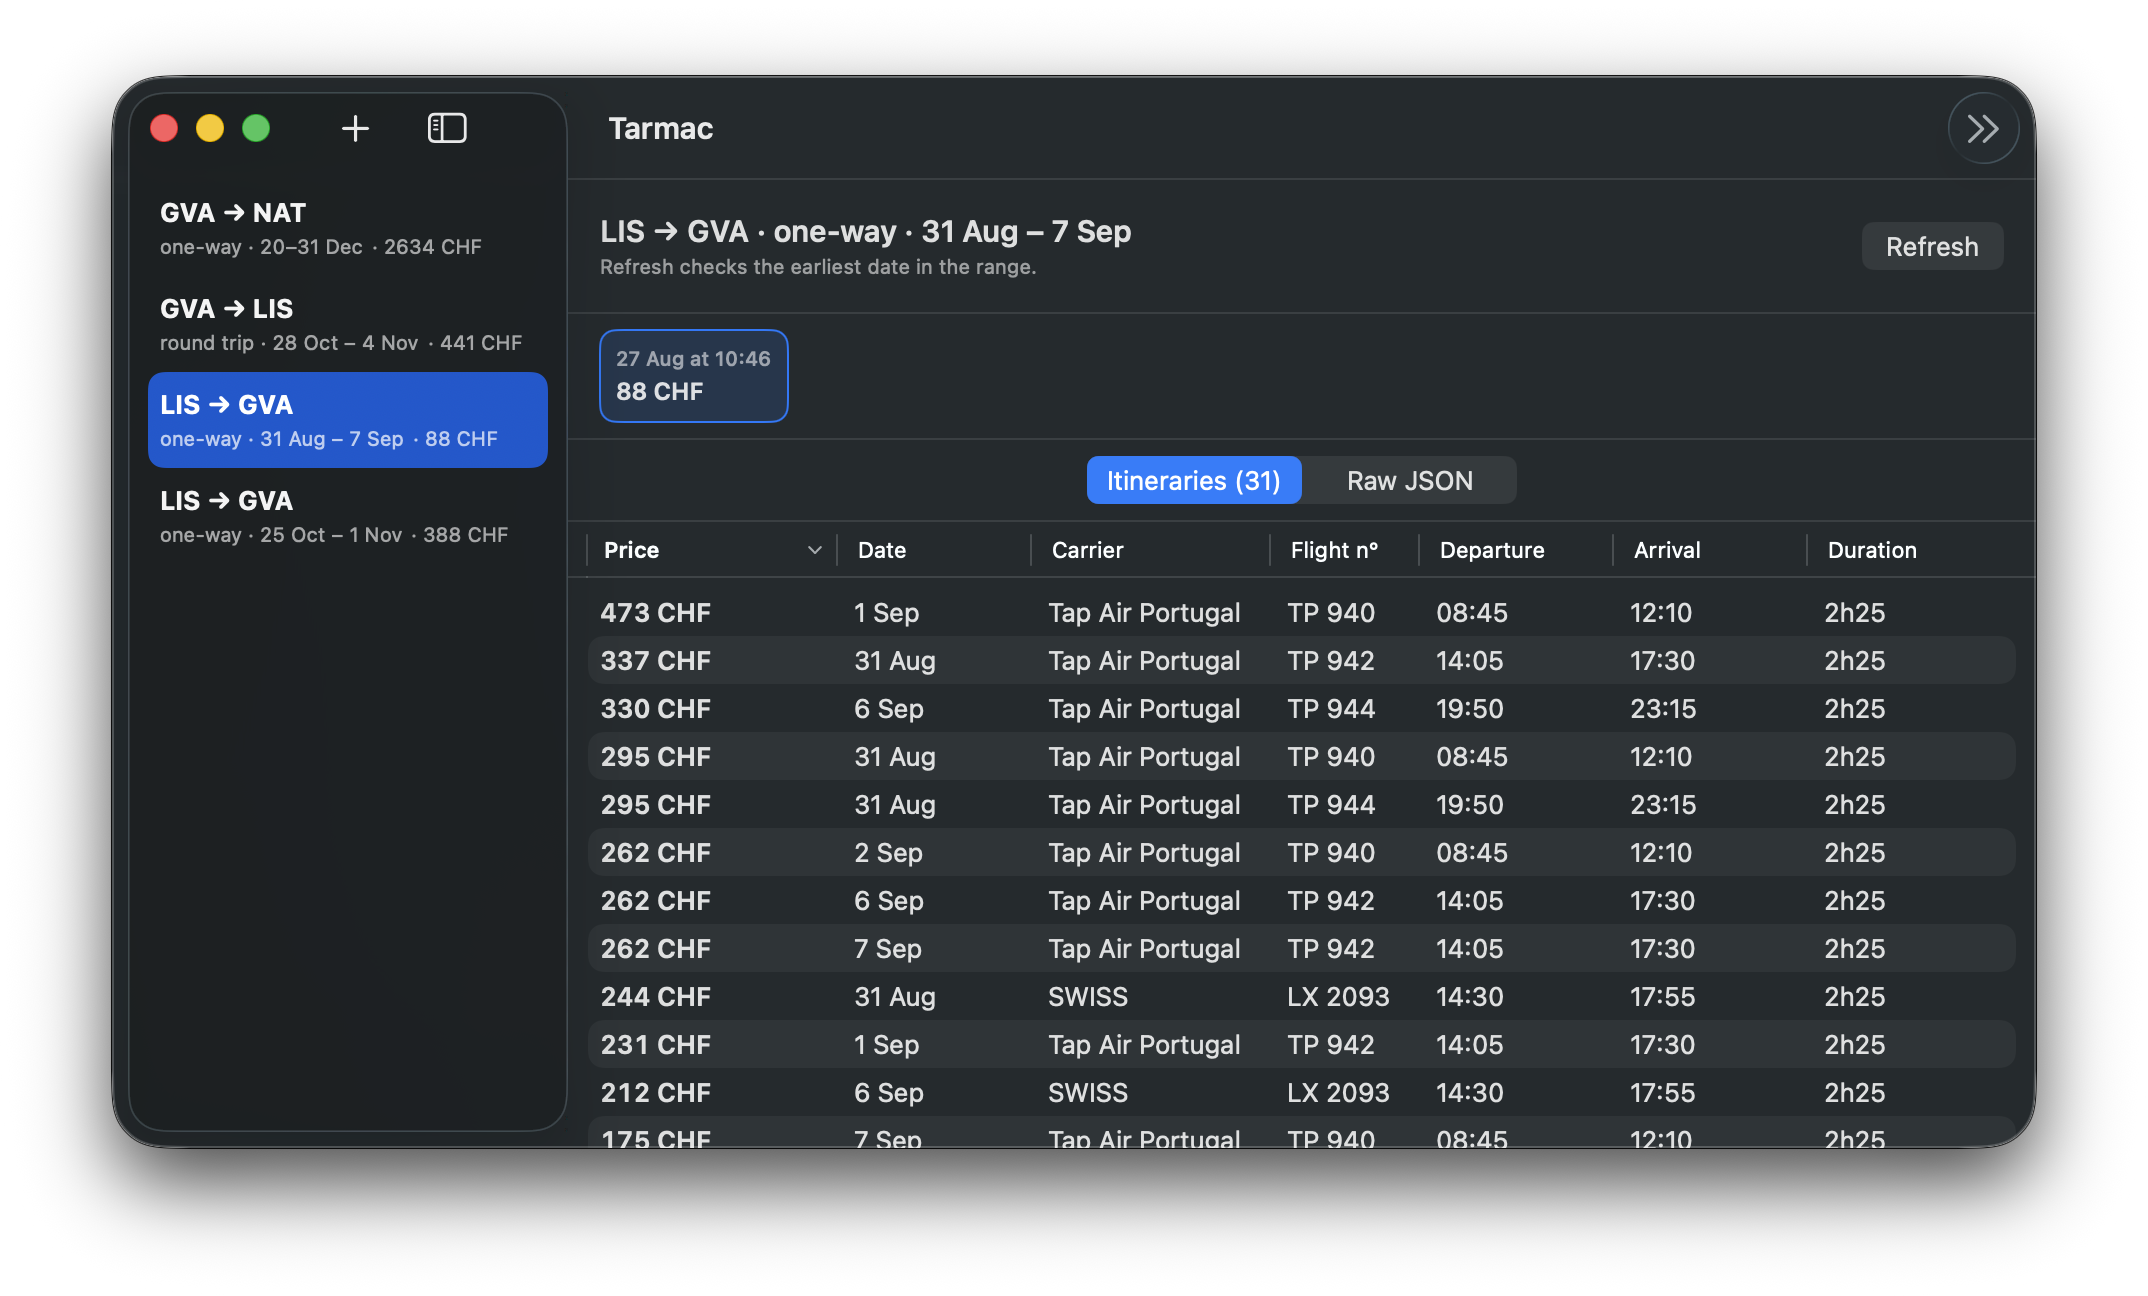
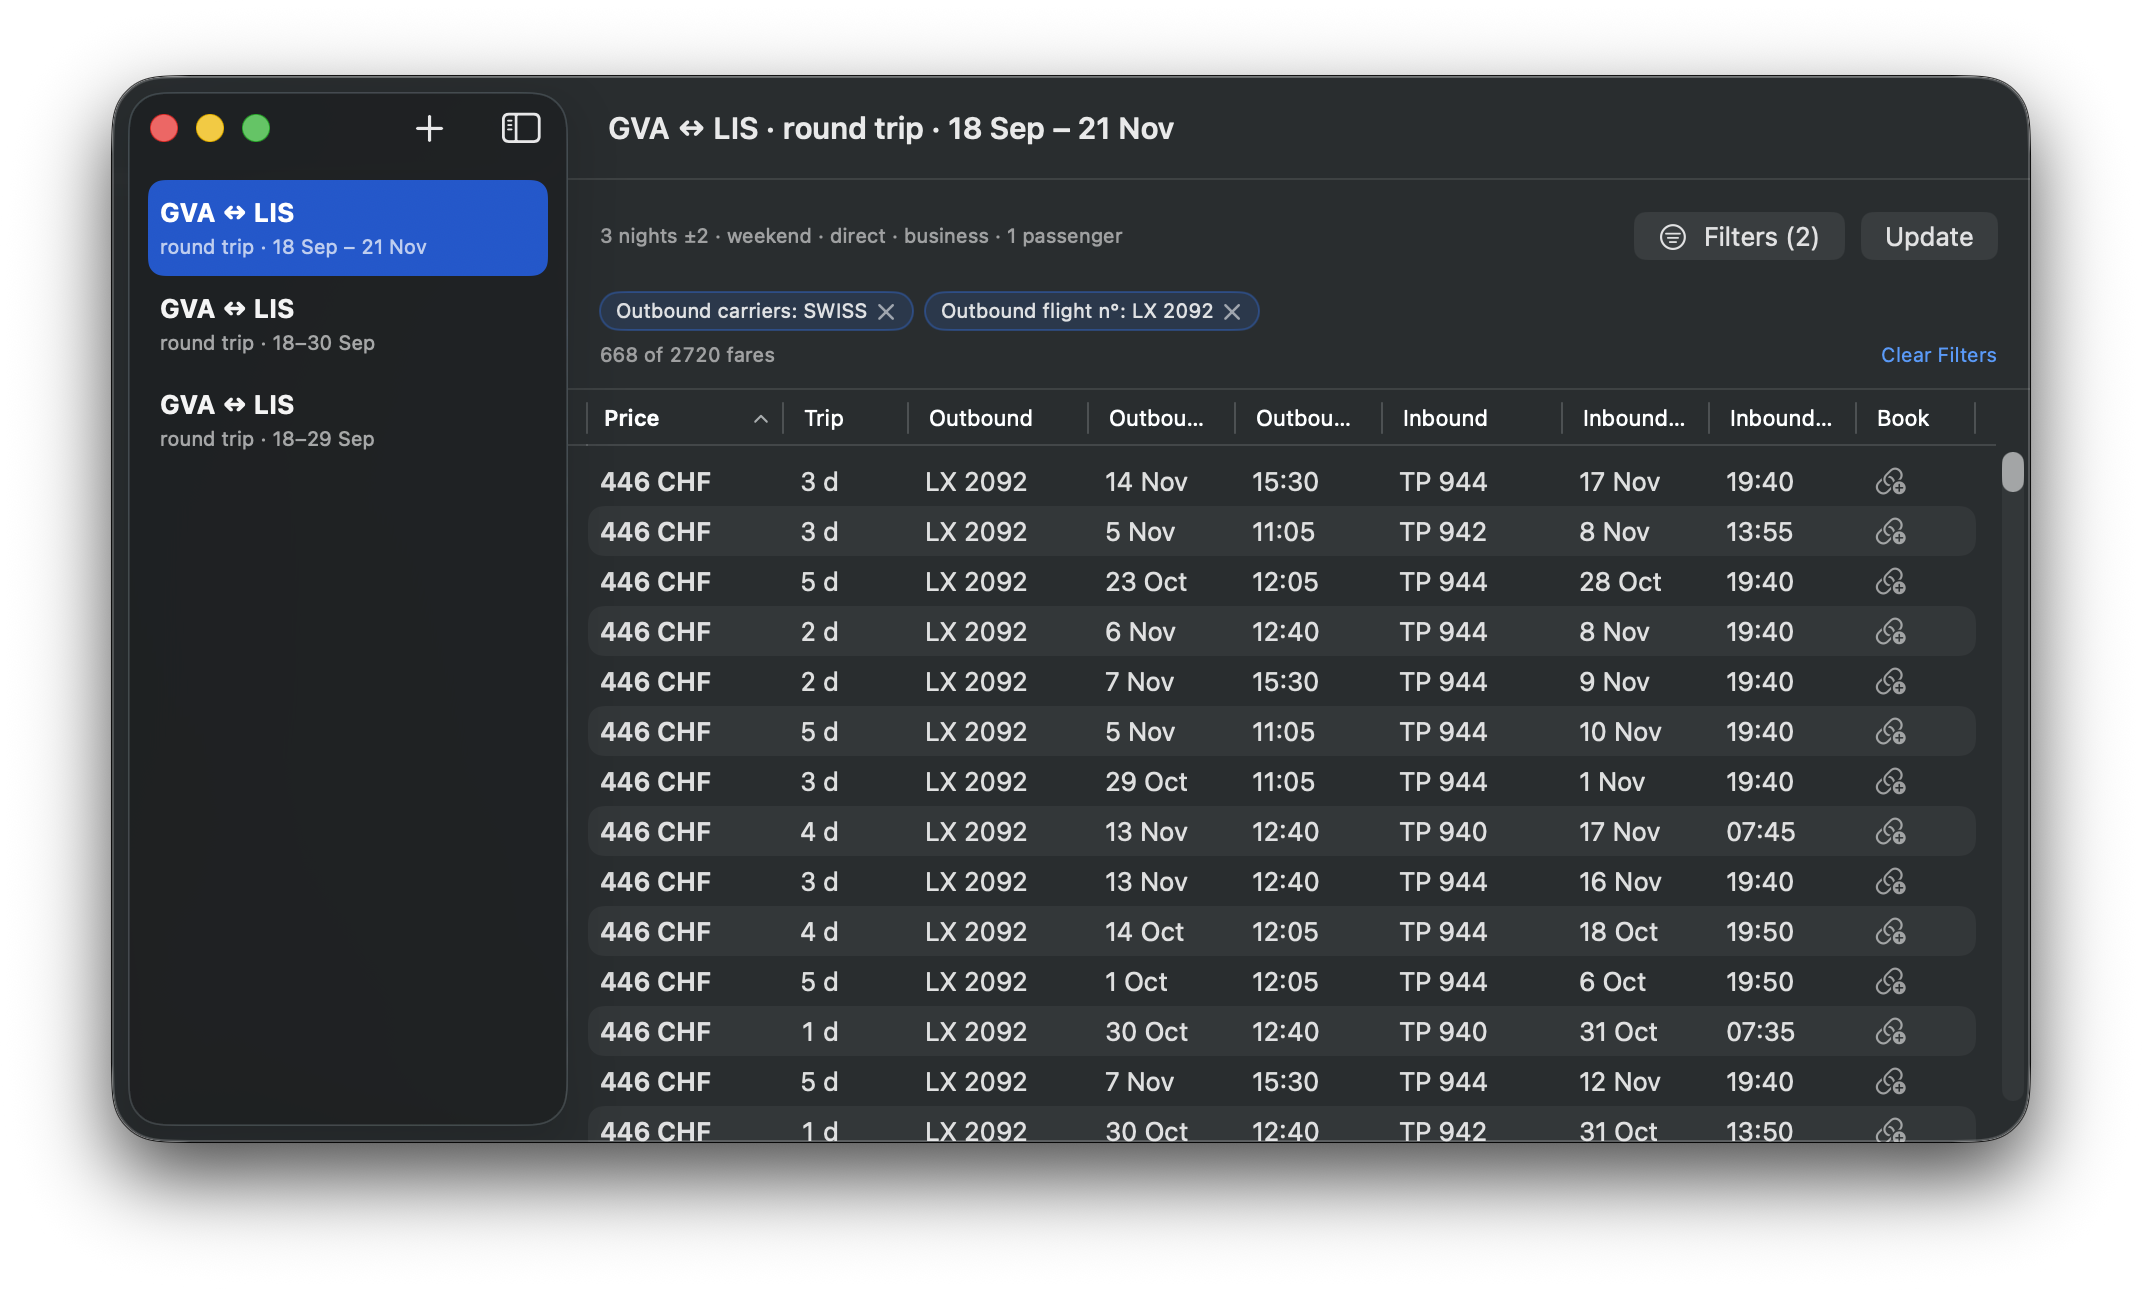
docs: refresh the screenshots
Both shots predated the round-trip work. The results one now shows a
round-trip search with its filter chips, and the form one shows the
round-trip tab, so relabel it - it was captioned as the one-way form.

diff --git a/README.md b/README.md
@@ -18,9 +18,9 @@ Tarmac is a native macOS app (SwiftUI + SwiftData) for tracking airfare prices. 
 
 ## Screenshots
 
-One-way search form:
+Round-trip search form:
 
-<img src="Docs/screenshot-form.png" alt="Tarmac one-way search form" width="420">
+<img src="Docs/screenshot-form.png" alt="Tarmac round-trip search form" width="420">
 
 Search results:
 
